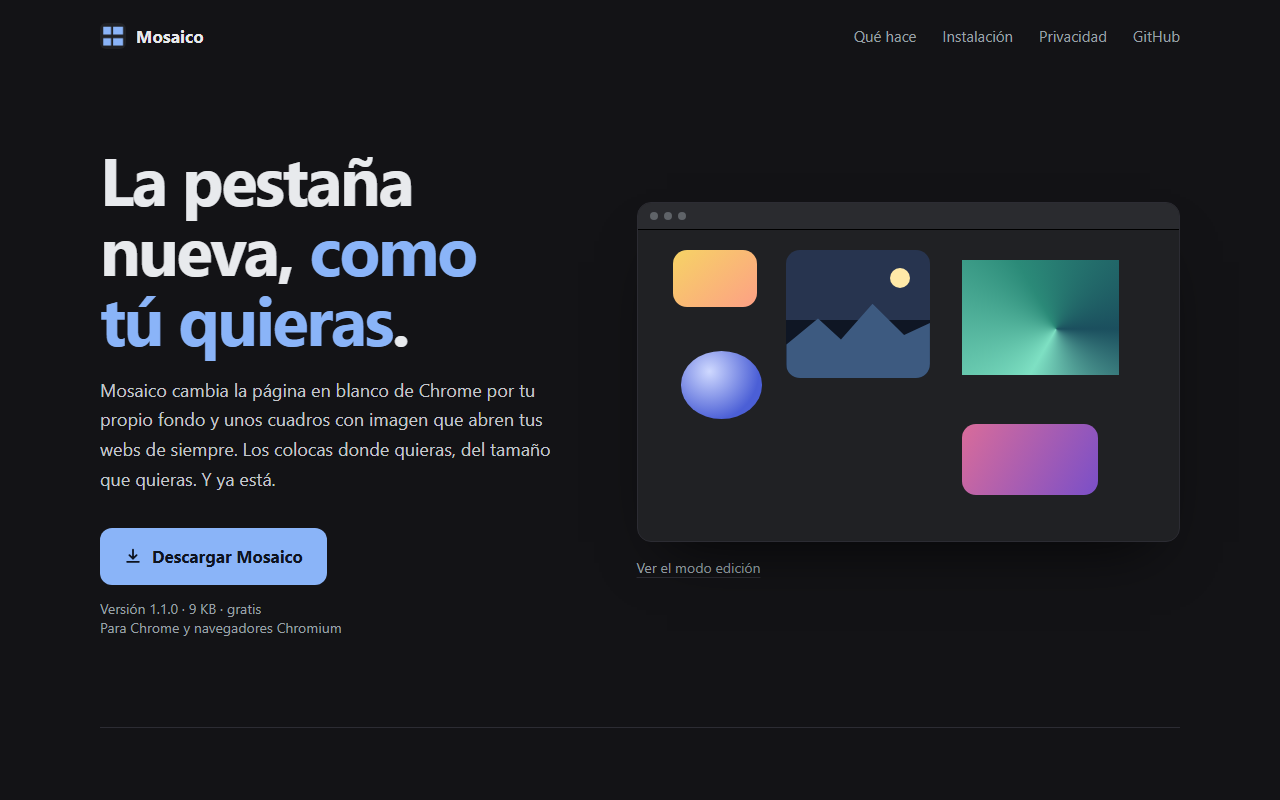
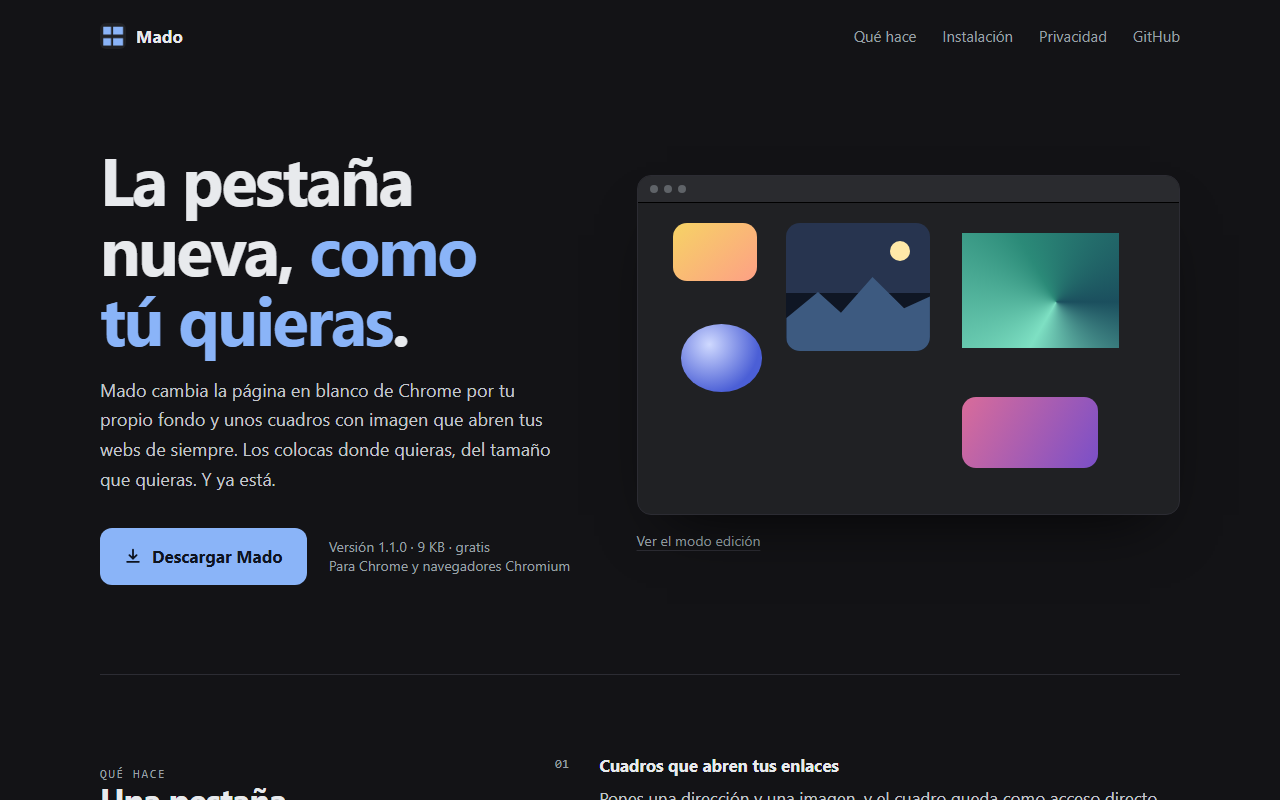
Rename project to Mado

diff --git a/site/index.html b/site/index.html
@@ -3,13 +3,13 @@
 <head>
 <meta charset="utf-8">
 <meta name="viewport" content="width=device-width, initial-scale=1">
-<title>Mosaico — una nueva pestaña a tu manera</title>
+<title>Mado — una nueva pestaña a tu manera</title>
 <meta name="description" content="Extensión gratuita para Chrome que sustituye la página de nueva pestaña por un fondo a tu gusto y cuadros con imagen que abren tus webs favoritas. Sin cuentas, sin rastreo.">
 <meta name="theme-color" content="#131316">
 <meta property="og:type" content="website">
-<meta property="og:title" content="Mosaico — una nueva pestaña a tu manera">
+<meta property="og:title" content="Mado — una nueva pestaña a tu manera">
 <meta property="og:description" content="Fondo propio y cuadros con imagen que abren tus enlaces. Extensión gratuita para Chrome, sin cuentas ni rastreo.">
-<meta property="og:image" content="https://mosaico.mgarciap.workers.dev/og.png">
+<meta property="og:image" content="https://mado.mgarciap.workers.dev/og.png">
 <meta property="og:locale" content="es_ES">
 <meta name="twitter:card" content="summary_large_image">
 <link rel="icon" href="favicon.svg" type="image/svg+xml">
@@ -60,7 +60,7 @@ header.top nav a:hover { color: var(--text); }
 .btn svg { width: 18px; height: 18px; }
 .cta small { color: var(--muted); font-size: 14px; line-height: 1.4; }
 
-/* Maqueta de la pestaña: mismas posiciones que el mosaico por defecto */
+/* Maqueta de la pestaña: mismas posiciones que la disposición por defecto */
 .demo { position: relative; }
 .stage { position: relative; aspect-ratio: 16 / 10; border-radius: 14px; background: #202124; border: 1px solid var(--line); box-shadow: 0 30px 60px -30px rgba(0, 0, 0, .8); overflow: hidden; }
 .stage::before { content: ""; position: absolute; inset: 0 0 auto 0; height: 26px; background: #2a2b2f; border-bottom: 1px solid #000; }
@@ -139,12 +139,12 @@ footer a:hover { color: var(--text); }
 
 <div class="wrap">
   <header class="top">
-    <a class="logo" href="#"><img src="icon.png" alt="" width="26" height="26">Mosaico</a>
+    <a class="logo" href="#"><img src="icon.png" alt="" width="26" height="26">Mado</a>
     <nav aria-label="Principal">
       <a href="#que-hace">Qué hace</a>
       <a href="#instalar">Instalación</a>
       <a href="#privacidad">Privacidad</a>
-      <a href="https://github.com/mgarcia333/mosaico">GitHub</a>
+      <a href="https://github.com/mgarcia333/mado">GitHub</a>
     </nav>
   </header>
 
@@ -152,11 +152,11 @@ footer a:hover { color: var(--text); }
     <div class="hero">
       <div>
         <h1>La pestaña nueva, <em>como tú quieras</em>.</h1>
-        <p class="lead">Mosaico cambia la página en blanco de Chrome por tu propio fondo y unos cuadros con imagen que abren tus webs de siempre. Los colocas donde quieras, del tamaño que quieras. Y ya está.</p>
+        <p class="lead">Mado cambia la página en blanco de Chrome por tu propio fondo y unos cuadros con imagen que abren tus webs de siempre. Los colocas donde quieras, del tamaño que quieras. Y ya está.</p>
         <div class="cta">
-          <a class="btn" href="mosaico.zip" download>
+          <a class="btn" href="mado.zip" download>
             <svg viewBox="0 0 20 20" fill="none" stroke="currentColor" stroke-width="2" stroke-linecap="round" stroke-linejoin="round" aria-hidden="true"><path d="M10 3v10m0 0-4-4m4 4 4-4M3.5 16.5h13"/></svg>
-            Descargar Mosaico
+            Descargar Mado
           </a>
           <small>Versión 1.1.0 · 9&nbsp;KB · gratis<br>Para Chrome y navegadores Chromium</small>
         </div>
@@ -186,7 +186,7 @@ footer a:hover { color: var(--text); }
           <li><b>01</b><div><h3>Cuadros que abren tus enlaces</h3><p>Pones una dirección y una imagen, y el cuadro queda como acceso directo. Puede ser cuadrado, redondeado o un círculo, y la imagen se rellena, se muestra completa o se estira.</p></div></li>
           <li><b>02</b><div><h3>Tu fondo, tu icono</h3><p>Un color liso o una imagen de fondo. También puedes cambiar el icono de la pestaña por el que prefieras.</p></div></li>
           <li><b>03</b><div><h3>Se edita ahí mismo</h3><p>Arrastras para mover, tiras de la esquina para cambiar el tamaño y sueltas una imagen sobre un cuadro para asignarla. Todo en la propia pestaña, sin menús de ajustes.</p></div></li>
-          <li><b>04</b><div><h3>Copia de seguridad</h3><p>Exporta tu mosaico a un archivo e impórtalo en otro ordenador o después de reinstalar el navegador.</p></div></li>
+          <li><b>04</b><div><h3>Copia de seguridad</h3><p>Exporta tus cuadros y tu fondo a un archivo e impórtalo en otro ordenador o después de reinstalar el navegador.</p></div></li>
         </ul>
       </div>
     </section>
@@ -196,13 +196,13 @@ footer a:hover { color: var(--text); }
         <div class="side">
           <p class="kicker">Instalación</p>
           <h2>Dos minutos, sin cuenta.</h2>
-          <p>Mosaico todavía no está en la Chrome Web Store, así que se instala a mano. Es seguro y se hace una sola vez.</p>
+          <p>Mado todavía no está en la Chrome Web Store, así que se instala a mano. Es seguro y se hace una sola vez.</p>
         </div>
         <div>
           <ol class="steps">
             <li>
               <h3>Descarga y descomprime</h3>
-              <p>Baja <a href="mosaico.zip" download>mosaico.zip</a> y extráelo. Te quedará una carpeta llamada <code>mosaico</code>. Guárdala en un sitio donde no te estorbe: Chrome la lee desde ahí, así que no la borres después.</p>
+              <p>Baja <a href="mado.zip" download>mado.zip</a> y extráelo. Te quedará una carpeta llamada <code>mado</code>. Guárdala en un sitio donde no te estorbe: Chrome la lee desde ahí, así que no la borres después.</p>
             </li>
             <li>
               <h3>Abre la página de extensiones</h3>
@@ -215,14 +215,14 @@ footer a:hover { color: var(--text); }
             </li>
             <li>
               <h3>Carga la carpeta</h3>
-              <p>Pulsa <b>Cargar descomprimida</b> y elige la carpeta <code>mosaico</code> (la que contiene <code>manifest.json</code>).</p>
+              <p>Pulsa <b>Cargar descomprimida</b> y elige la carpeta <code>mado</code> (la que contiene <code>manifest.json</code>).</p>
             </li>
             <li>
               <h3>Abre una pestaña nueva</h3>
               <p>La primera vez entra directamente en modo edición con cinco cuadros vacíos. Pulsa uno, ponle un enlace y una imagen, y colócalo a tu gusto.</p>
             </li>
           </ol>
-          <p class="note">Para volver a editar: pulsa el icono de Mosaico en la barra de herramientas, o <kbd>Esc</kbd> / <b>Listo</b> para salir del modo edición. Si Chrome te pregunta si quieres mantener la extensión que cambia la nueva pestaña, di que sí.</p>
+          <p class="note">Para volver a editar: pulsa el icono de Mado en la barra de herramientas, o <kbd>Esc</kbd> / <b>Listo</b> para salir del modo edición. Si Chrome te pregunta si quieres mantener la extensión que cambia la nueva pestaña, di que sí.</p>
         </div>
       </div>
     </section>
@@ -235,8 +235,8 @@ footer a:hover { color: var(--text); }
         </div>
         <dl class="facts">
           <div><dt>Nada sale de tu navegador</dt><dd>Los cuadros, las imágenes y el fondo se guardan en el almacenamiento local de la extensión. No hay servidor, ni cuenta, ni analítica, ni peticiones de red.</dd></div>
-          <div><dt>Dos permisos, y solo esos</dt><dd><code>storage</code> para recordar tu mosaico y <code>unlimitedStorage</code> para que las imágenes grandes no se queden sin sitio. No lee las webs que visitas ni tu historial.</dd></div>
-          <div><dt>Código abierto</dt><dd>Son menos de 600 líneas entre HTML, CSS y JavaScript, sin dependencias. Léelas en <a href="https://github.com/mgarcia333/mosaico">GitHub</a> antes de instalarla, si quieres.</dd></div>
+          <div><dt>Dos permisos, y solo esos</dt><dd><code>storage</code> para recordar tus cuadros y tu fondo y <code>unlimitedStorage</code> para que las imágenes grandes no se queden sin sitio. No lee las webs que visitas ni tu historial.</dd></div>
+          <div><dt>Código abierto</dt><dd>Son menos de 600 líneas entre HTML, CSS y JavaScript, sin dependencias. Léelas en <a href="https://github.com/mgarcia333/mado">GitHub</a> antes de instalarla, si quieres.</dd></div>
         </dl>
       </div>
     </section>
@@ -245,8 +245,8 @@ footer a:hover { color: var(--text); }
 
 <footer>
   <div class="wrap">
-    <span>Hecho por Moisés García Poveda, en Barcelona.</span>
-    <span><a href="https://github.com/mgarcia333/mosaico">Código en GitHub</a> · Licencia MIT</span>
+    <span>Hecho por Moisés García Poveda, en Barcelona. <i style="font-style:normal">Mado</i> (窓) significa «ventana» en japonés.</span>
+    <span><a href="https://github.com/mgarcia333/mado">Código en GitHub</a> · Licencia MIT</span>
   </div>
 </footer>
 

diff --git a/docs/og.html b/docs/og.html
@@ -4,8 +4,8 @@ h1{position:absolute;left:72px;top:150px;font-size:84px;line-height:1.04;letter-
 p{position:absolute;left:76px;bottom:70px;font-size:26px;color:#9aa0a6}
 .n{position:absolute;left:72px;top:64px;font-weight:650;font-size:28px;display:flex;gap:12px;align-items:center}.n img{width:36px;border-radius:8px}
 .s{position:absolute;left:690px;top:90px;width:440px;height:450px}.t{position:absolute}
-</style><div class="n"><img src="../site/icon.png">Mosaico</div>
-<h1>La pestaña nueva, <em>como tú quieras</em>.</h1><p>Extensión gratuita para Chrome</p>
+</style><div class="n"><img src="../site/icon.png">Mado</div>
+<h1>La pestaña nueva, <em>como tú quieras</em>.</h1>
 <div class="s">
 <div class="t" style="left:0;top:20px;width:130px;height:120px;border-radius:22px;background:linear-gradient(140deg,#f6d365,#fda085)"></div>
 <div class="t" style="left:0;top:180px;width:130px;height:130px;border-radius:50%;background:radial-gradient(circle at 35% 30%,#cfd9ff,#4b5fd6 70%)"></div>

diff --git a/extension/background.js b/extension/background.js
@@ -3,7 +3,7 @@ chrome.action.onClicked.addListener(async tab => {
   try {
     await chrome.tabs.sendMessage(tab.id, { type: 'edit' });
   } catch {
-    // La pestaña activa no es el mosaico: abre una nueva ya en modo edición.
+    // La pestaña activa no es la de Mado: abre una nueva ya en modo edición.
     await chrome.storage.session.set({ edit: true });
     chrome.tabs.create({});
   }

diff --git a/extension/newtab.js b/extension/newtab.js
@@ -349,7 +349,7 @@ $('#bExp').onclick = async () => {
   const d = await store.get(null);
   const a = document.createElement('a');
   a.href = URL.createObjectURL(new Blob([JSON.stringify(d)], { type: 'application/json' }));
-  a.download = 'mosaico-backup.json';
+  a.download = 'mado-backup.json';
   a.click();
   setTimeout(() => URL.revokeObjectURL(a.href), 1000);
 };

diff --git a/scripts/package.py b/scripts/package.py
@@ -1,5 +1,5 @@
 #!/usr/bin/env python3
-"""Empaqueta la extensión en site/mosaico.zip (la carpeta se llama «mosaico» al descomprimir)."""
+"""Empaqueta la extensión en site/mado.zip (la carpeta se llama «mado» al descomprimir)."""
 
 import json
 import zipfile
@@ -7,13 +7,13 @@ from pathlib import Path
 
 RAIZ = Path(__file__).resolve().parent.parent
 EXT = RAIZ / "extension"
-SALIDA = RAIZ / "site" / "mosaico.zip"
+SALIDA = RAIZ / "site" / "mado.zip"
 
 version = json.loads((EXT / "manifest.json").read_text(encoding="utf8"))["version"]
 
 with zipfile.ZipFile(SALIDA, "w", zipfile.ZIP_DEFLATED, compresslevel=9) as z:
     for f in sorted(EXT.rglob("*")):
         if f.is_file():
-            z.write(f, Path("mosaico") / f.relative_to(EXT))
+            z.write(f, Path("mado") / f.relative_to(EXT))
 
-print(f"mosaico v{version} -> {SALIDA.relative_to(RAIZ)} ({SALIDA.stat().st_size / 1024:.1f} KB)")
+print(f"mado v{version} -> {SALIDA.relative_to(RAIZ)} ({SALIDA.stat().st_size / 1024:.1f} KB)")

diff --git a/README.md b/README.md
@@ -2,7 +2,7 @@
 
 <img src="extension/icons/128.png" width="72" alt="">
 
-# Mosaico
+# Mado
 
 **Una nueva pestaña para Chrome con tu propio fondo y cuadros con imagen que abren tus enlaces.**
 
@@ -11,9 +11,9 @@
 ![Dependencias](https://img.shields.io/badge/dependencias-0-8ab4f8?style=flat-square&labelColor=202124)
 ![Licencia](https://img.shields.io/badge/licencia-MIT-lightgrey?style=flat-square&labelColor=202124)
 
-[**Descargar**](site/mosaico.zip) · [Cómo se instala](#instalación) · [Privacidad](#privacidad)
+[**Descargar**](site/mado.zip) · [Cómo se instala](#instalación) · [Privacidad](#privacidad)
 
-![Web de Mosaico](docs/captura.png)
+![Web de Mado](docs/captura.png)
 
 </div>
 
@@ -21,7 +21,7 @@
 
 ## Qué es
 
-Mosaico sustituye la página de nueva pestaña por un lienzo tuyo: un color o una imagen de fondo y los cuadros que quieras,
+Mado sustituye la página de nueva pestaña por un lienzo tuyo: un color o una imagen de fondo y los cuadros que quieras,
 cada uno con su imagen y su enlace. Se colocan donde quieras y se editan en la propia pestaña, sin pantallas de ajustes.
 
 No incluye buscador, noticias ni widgets. Solo lo que pongas tú.
@@ -33,32 +33,32 @@ No incluye buscador, noticias ni widgets. Solo lo que pongas tú.
 - **Fondo e icono:** color liso o imagen de fondo, y icono de pestaña personalizado.
 - **Imágenes ligeras:** se redimensionan y comprimen a WebP al subirlas.
 - **Sin parpadeos:** el color de fondo se pinta antes de que cargue el resto, así la pestaña no «salta».
-- **Copia de seguridad:** exporta e importa todo el mosaico en un único `.json`.
+- **Copia de seguridad:** exporta e importa todos tus cuadros y el fondo en un único `.json`.
 
 ## Instalación
 
-Mosaico no está (todavía) en la Chrome Web Store, así que se carga a mano. Son dos minutos.
+Mado no está (todavía) en la Chrome Web Store, así que se carga a mano. Son dos minutos.
 
-1. Descarga [`mosaico.zip`](site/mosaico.zip) y descomprímelo. Obtendrás una carpeta `mosaico`; no la borres después, Chrome la lee desde ahí.
+1. Descarga [`mado.zip`](site/mado.zip) y descomprímelo. Obtendrás una carpeta `mado`; no la borres después, Chrome la lee desde ahí.
 2. Abre `chrome://extensions` (`edge://extensions` en Edge, `brave://extensions` en Brave).
 3. Activa el **modo desarrollador** (arriba a la derecha).
-4. Pulsa **Cargar descomprimida** y elige la carpeta `mosaico` (la que contiene `manifest.json`).
+4. Pulsa **Cargar descomprimida** y elige la carpeta `mado` (la que contiene `manifest.json`).
 5. Abre una pestaña nueva. La primera vez entra directamente en modo edición.
 
-Para volver a editar, pulsa el icono de Mosaico en la barra de herramientas. `Esc` o **Listo** cierran el modo edición.
+Para volver a editar, pulsa el icono de Mado en la barra de herramientas. `Esc` o **Listo** cierran el modo edición.
 
 > Pensada para Chrome. Debería funcionar igual en otros navegadores basados en Chromium con Manifest V3, pero solo está probada en Chrome.
 
 ## Privacidad
 
 - Todo se guarda en `chrome.storage.local`, en tu navegador. No hay servidor, cuentas, analítica ni peticiones de red.
-- Permisos: `storage` (recordar tu mosaico) y `unlimitedStorage` (que las imágenes grandes no agoten la cuota).
+- Permisos: `storage` (recordar tus cuadros y tu fondo) y `unlimitedStorage` (que las imágenes grandes no agoten la cuota).
 - No lee las webs que visitas ni tu historial.
 
 ## Estructura del repositorio
 
 ```
-mosaico/
+mado/
 ├── extension/          # El código de la extensión (se carga tal cual en Chrome)
 │   ├── manifest.json
 │   ├── newtab.html / newtab.css / newtab.js
@@ -67,8 +67,8 @@ mosaico/
 │   └── icons/
 ├── site/               # La web de descarga (estática)
 │   ├── index.html
-│   └── mosaico.zip     # Generado con scripts/package.py
-├── scripts/package.py  # Empaqueta extension/ en site/mosaico.zip
+│   └── mado.zip        # Generado con scripts/package.py
+├── scripts/package.py  # Empaqueta extension/ en site/mado.zip
 ├── docs/               # Captura y fuente de la imagen para compartir
 └── wrangler.jsonc      # Despliegue de site/ en Cloudflare Workers
 ```
